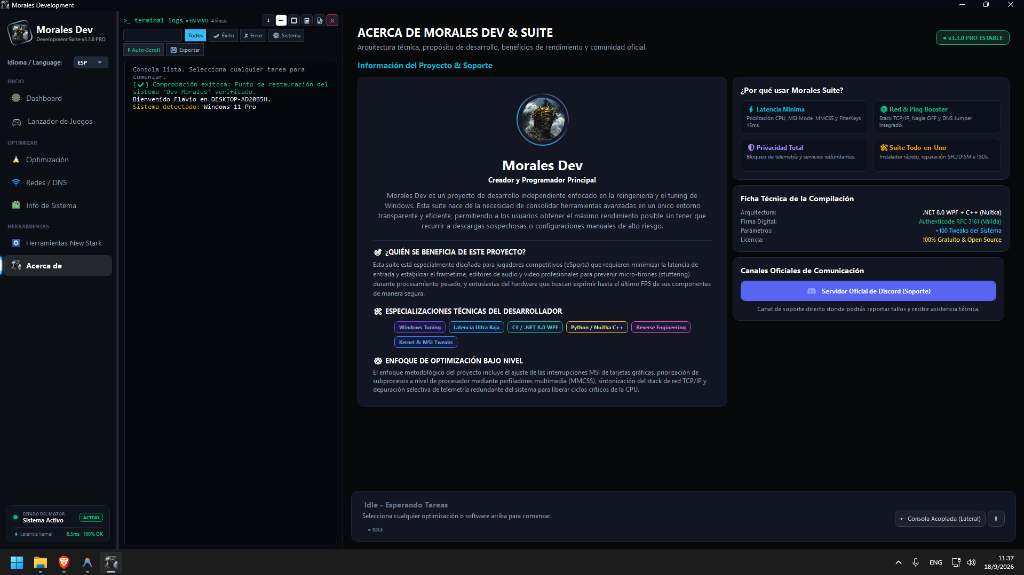
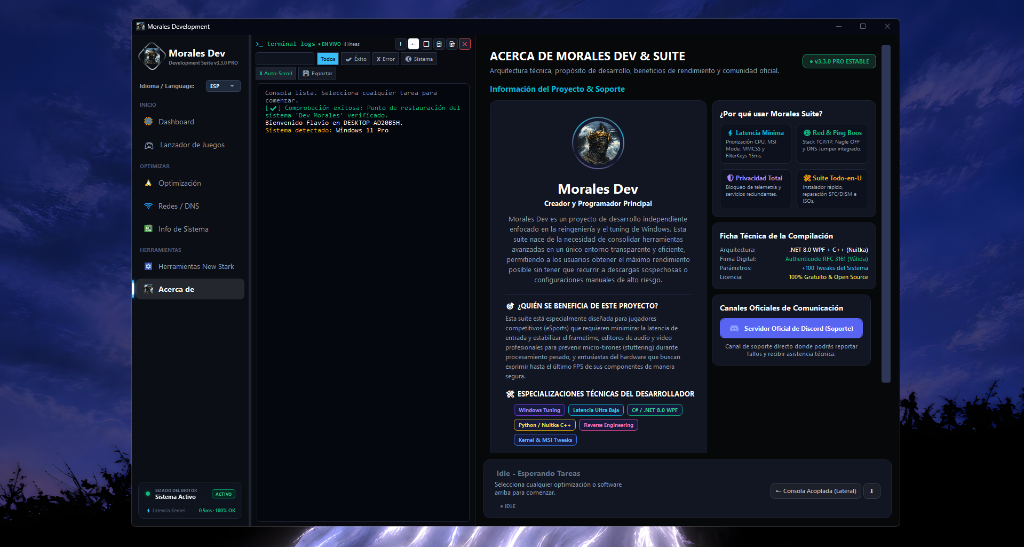
feat: actualizar portada con captura flotante y sombreada de Morales Dev Suite

diff --git a/js/Logica.js b/js/Logica.js
@@ -281,7 +281,7 @@ document.addEventListener('DOMContentLoaded', () => {
                 title: 'Morales Dev Suite',
                 subtitle: 'Herramienta integral de optimización extrema, diagnóstico de hardware y kernel tuning para Windows.',
                 video: 'assets/videos/morales_dev.mp4',
-                placeholderImg: 'assets/images/morales_development.png?v=3.0',
+                placeholderImg: 'assets/images/morales_development.png?v=3.1',
                 features: [
                     '<strong>Arquitectura Híbrida C# & C++:</strong> Frontend moderno en WPF (.NET 8.0) enlazado a un núcleo nativo C++ compilado con Nuitka para ejecución instantánea sin dependencias.',
                     '<strong>Optimizaciones a Nivel de Kernel:</strong> NtSetTimerResolution a 0.5ms nativo, kernel 100% en memoria RAM y priorización dinámica de CPU para erradicar micro-tirones (stuttering).',
@@ -314,7 +314,7 @@ document.addEventListener('DOMContentLoaded', () => {
                 title: 'Morales Dev Suite',
                 subtitle: 'Comprehensive Windows optimization, hardware diagnostics, and kernel tuning suite.',
                 video: 'assets/videos/morales_dev.mp4',
-                placeholderImg: 'assets/images/morales_development.png?v=3.0',
+                placeholderImg: 'assets/images/morales_development.png?v=3.1',
                 features: [
                     '<strong>Hybrid C# & C++ Architecture:</strong> Modern WPF (.NET 8.0) frontend linked to a native C++ core compiled with Nuitka for instant standalone execution.',
                     '<strong>Kernel-Level Tuning:</strong> NtSetTimerResolution set to native 0.5ms, kernel 100% in RAM, and dynamic CPU scheduling to eliminate micro-stuttering.',

diff --git a/index.html b/index.html
@@ -49,7 +49,7 @@
     <!-- FontAwesome para iconos -->
     <link rel="stylesheet" href="https://cdnjs.cloudflare.com/ajax/libs/font-awesome/6.4.0/css/all.min.css">
     <!-- Estilos CSS -->
-    <link rel="stylesheet" href="css/Diseño.css?v=3.0">
+    <link rel="stylesheet" href="css/Diseño.css?v=3.1">
 </head>
 <body>
 
@@ -394,7 +394,7 @@
                     <!-- Proyecto 2: Morales Dev (Software PC) -->
                     <article class="project-card" data-category="pc">
                         <div class="project-image-placeholder">
-                            <img src="assets/images/morales_development.png?v=3.0" alt="Captura de Morales Dev Suite" class="project-img">
+                            <img src="assets/images/morales_development.png?v=3.1" alt="Captura de Morales Dev Suite" class="project-img">
                         </div>
                         <div class="project-info">
                             <span class="project-tag" data-i18n="project-pc-tag">Software PC / Desktop</span>
@@ -627,6 +627,6 @@
     </div>
 
     <!-- Script JS -->
-    <script src="js/Logica.js?v=3.0"></script>
+    <script src="js/Logica.js?v=3.1"></script>
 </body>
 </html>
